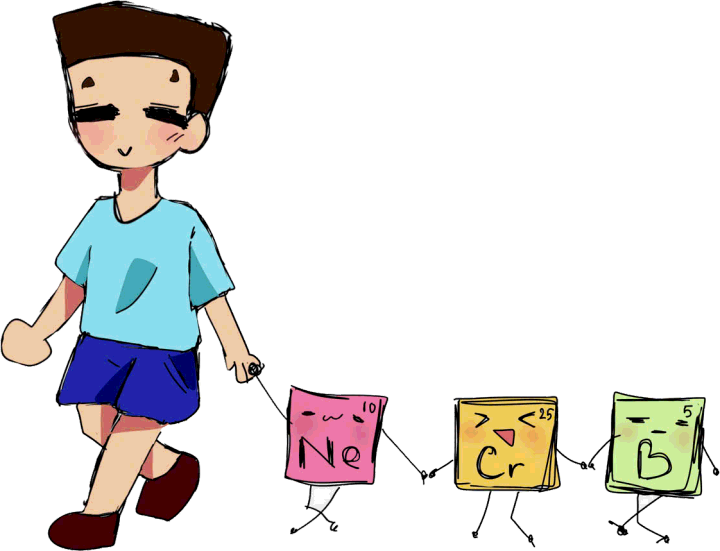
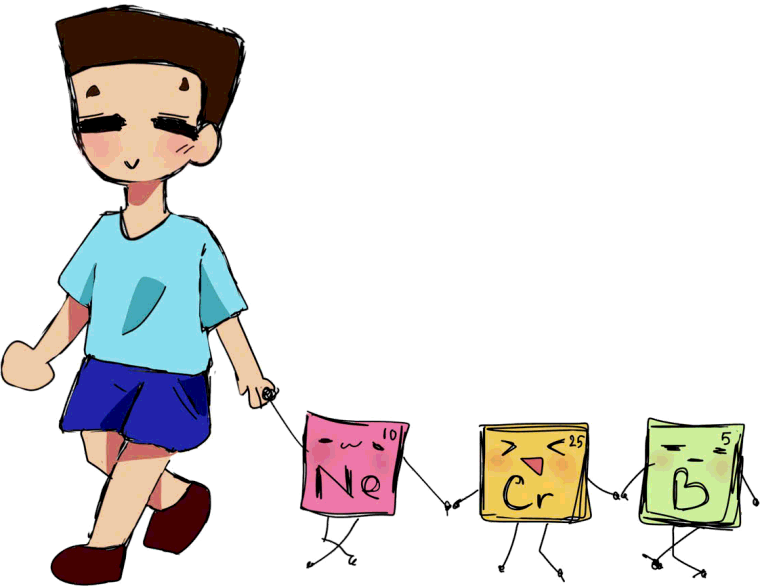
Go sach nen trang con sot va doi nhan vat thanh dai ngang duoi chu
Ba loai nen trang con sot, sua ca ba:
- Quang trang doc vien toc va mat: ria nhoe JPEG, pixel mep bi pha lan mau
  trang. Nen sang khong thay nhung nen toi thi phat sang. Nay suy alpha tu
  do trang cua tung pixel (244 -> trong, 212 -> duc) roi go lop trang da pha
  vao mau (un-premultiply) de vien khong bac mau. Lam mem 3560 px.
- Mang trang ket giua ke chan o Ne (1056 px) va o B (364 px): vung trang bi
  vien khep kin bao quanh nen to loang tu mep ngoai khong voi toi. Nay bat
  rieng, vung tu 200 px tro len cho trong suot.
- 73 khe ho nho trong toc va than: to lai bang mau vien xung quanh thay vi
  cho trong suot, khong thi thanh lo thung.

Bo cuc: anh chuyen tu cot ben phai xuong thanh dai ngang duoi phan chu, can
giua. Chan theo CHIEU CAO (clamp 210-360px) chu khong theo be ngang: anh ti
le 760/586 gan vuong, cho rong het 1190px cua khoi thi cao hon 900px, nuot
ca khoi tieu de va day Buoc 1 / Buoc 2 xuong duoi man hinh.

Da do 1600 va 375, ca hai che do sang toi: khong sinh cuon ngang.

diff --git a/public/games/hoa11-boardgame.html b/public/games/hoa11-boardgame.html
@@ -441,12 +441,13 @@ h1.title .sub{display:block; font-size:.36em; letter-spacing:.22em; font-weight:
 .formula-strip span{border:1px solid var(--line); padding:3px 8px; color:var(--muted)}
 
 /* ---------- nhân vật + hình vẽ trang trí ở màn hình chuẩn bị ---------- */
-.plate-body{display:flex; align-items:center; gap:28px}
-.plate-text{flex:1 1 auto; min-width:0}
-.plate-mascot{flex:0 0 auto; width:min(44%,440px); height:auto; display:block}
-@media (max-width:900px){
-  .plate-body{display:block}
-  .plate-mascot{width:100%; max-width:400px; margin:20px auto 0}
+/* Nhân vật thành dải ngang bên dưới phần chữ.
+   Chặn theo CHIỀU CAO chứ không theo bề ngang: ảnh tỉ lệ 760/586 (gần vuông)
+   nên nếu cho rộng hết 1190px của khối thì cao hơn 900px, nuốt cả khối tiêu
+   đề và đẩy Bước 1 / Bước 2 xuống dưới màn hình. */
+.plate-mascot{
+  display:block; width:auto; height:clamp(210px,26vw,360px); max-width:100%;
+  margin:24px auto 0;
 }
 
 /* Lớp hình vẽ hoá học rải ra hai bên lề trang.
@@ -963,22 +964,18 @@ table.bank tr.picked td{background:var(--accent-soft)}
       <span class="plate-code">HÓA HỌC 11 · KẾT NỐI TRI THỨC VỚI CUỘC SỐNG</span>
       <span class="plate-code" id="plateCount">28 Ô · 6 CHƯƠNG · 160 CÂU HỎI</span>
     </div>
-    <div class="plate-body">
-      <div class="plate-text">
-        <h1 class="title">Vòng Quanh<br>Hóa 11<span class="sub">Trò chơi bàn cờ ôn tập</span></h1>
-        <p class="lede" style="margin-top:16px">
-          Tung xúc xắc, đi quanh 28 ô đánh số. Không ai biết trước ô mình dừng chân là gì — chọn mức độ
-          xong mới lộ ra chương và câu hỏi. Đội nào chạm mốc điểm trước sẽ thắng, và mỗi câu đều có lời
-          giải thích ngắn để học sinh hiểu bản chất.
-        </p>
-        <div class="formula-strip">
-          <span>Kc</span><span>N₂ · S</span><span>C<sub>x</sub>H<sub>y</sub>O<sub>z</sub></span>
-          <span>C–H</span><span>–OH</span><span>–COOH</span>
-        </div>
-      </div>
-      <img class="plate-mascot" src="/mascot/mascot-boardgame.png"
-           alt="Bạn học dắt theo ba ô nguyên tố Ne, Cr và B đi dạo">
+    <h1 class="title">Vòng Quanh<br>Hóa 11<span class="sub">Trò chơi bàn cờ ôn tập</span></h1>
+    <p class="lede" style="margin-top:16px">
+      Tung xúc xắc, đi quanh 28 ô đánh số. Không ai biết trước ô mình dừng chân là gì — chọn mức độ
+      xong mới lộ ra chương và câu hỏi. Đội nào chạm mốc điểm trước sẽ thắng, và mỗi câu đều có lời
+      giải thích ngắn để học sinh hiểu bản chất.
+    </p>
+    <div class="formula-strip">
+      <span>Kc</span><span>N₂ · S</span><span>C<sub>x</sub>H<sub>y</sub>O<sub>z</sub></span>
+      <span>C–H</span><span>–OH</span><span>–COOH</span>
     </div>
+    <img class="plate-mascot" src="/mascot/mascot-boardgame.png"
+         alt="Bạn học dắt theo ba ô nguyên tố Ne, Cr và B đi dạo">
   </div>
 
   <div class="setup-grid">
